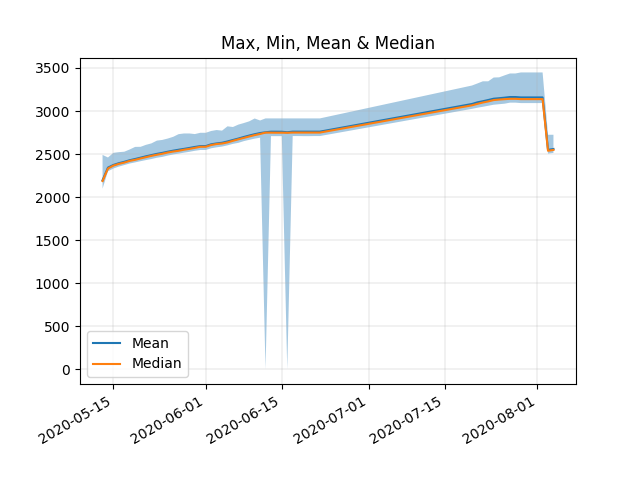
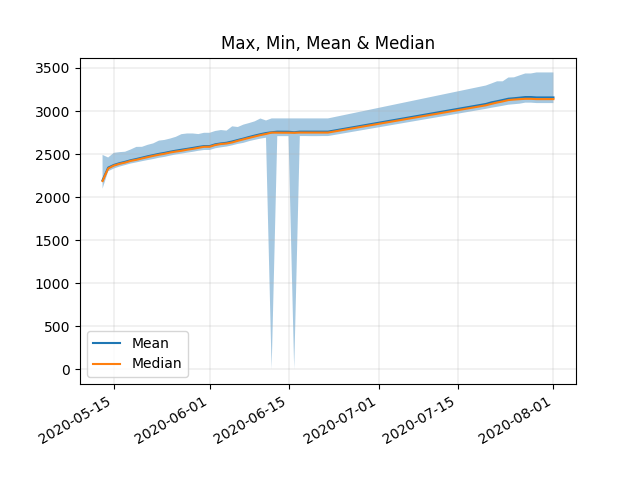
Tue Aug  4 18:10:04 EDT 2020

diff --git a/script/populate_readme.py b/script/populate_readme.py
@@ -31,8 +31,27 @@ def plots(data_frame, fig_name):
     plt.gcf().autofmt_xdate()
     fig.savefig(f"{pwd_path}../images/{fig_name}_CHANGE.png", format="png")
 
-sData = {}
 
+def season_plot(df, start_date, end_date, season_name):
+    season_mask = (df['date'] > start_date) & (df['date'] <= end_date)
+    season_df = df.loc[season_mask].copy()
+    season_reset = True
+    start_mean = 0
+    for row in season_df.itertuples():
+        if season_reset:
+            season_df.at[row.Index, 'drift_total'] = 0
+            season_df.at[row.Index, 'drift_daily'] = 0
+            start_mean = row.mean
+            season_reset = False
+        else:
+            prev_mean = season_df.at[row.Index-1, 'mean']
+            season_df.at[row.Index, 'drift_daily'] = round(row.mean - prev_mean, 1)
+            season_df.at[row.Index, 'drift_total'] = round(row.mean - start_mean, 1)
+    print(season_df)
+    plots(season_df, season_name)
+
+
+sData = {}
 for inFile in os.listdir(json_file):
     with open(os.path.join(json_file, inFile), 'r') as in_file:
         if "latest" in inFile:
@@ -101,31 +120,21 @@ for clm in clms:
 # all time plots
 plots(df, "all-time")
 # season 1 plots
-season1 = (df['date'] > "2020-04-11") & (df['date'] <= "2020-05-11")
-plots(df.loc[season1].copy(), "season-1")
+season_plot(df, "2020-04-11", "2020-05-11", "season-1")
 # season 2 plots
-season2_mask = (df['date'] > "2020-05-12") & (df['date'] <= "2022-01-01")
-season2 = df.loc[season2_mask].copy()
-season_reset = True
-start_mean = 0
-for row in season2.itertuples():
-    if season_reset:
-        season2.at[row.Index, 'drift_total'] = 0
-        season2.at[row.Index, 'drift_daily'] = 0
-        start_mean = row.mean
-        season_reset = False
-    else:
-        prev_mean = season2.at[row.Index-1, 'mean']
-        season2.at[row.Index, 'drift_daily'] = round(row.mean - prev_mean, 1)
-        season2.at[row.Index, 'drift_total'] = round(row.mean - start_mean, 1)
-print(season2)
-plots(season2, "season-2")
+season_plot(df, "2020-05-12", "2020-08-01", "season-2")
+# season 3 plots
+season_plot(df, "2020-08-02", "2022-01-01", "season-3")
 
 stat.append(clms)
 with open(f'{pwd_path}/../README.md', 'w') as readme_file:
     readme_file.write("# MMR Drift Status\n")
     readme_file.write("\n")
     readme_file.write(f"**Last Updated (UTC):** {datetime.utcnow()}\n")
+
+    readme_file.write("# Season 3\n")
+    readme_file.write(f"![Figure 1](/images/season-3_MMMM.png)\n")
+    readme_file.write(f"![Figure 2](/images/season-3_CHANGE.png)\n")
 
     readme_file.write("# Season 2\n")
     readme_file.write(f"![Figure 1](/images/season-2_MMMM.png)\n")
@@ -157,4 +166,3 @@ with open(f'{pwd_path}/../README.md', 'w') as readme_file:
             line = "|:---" * row_len + " |\n"
             readme_file.write(line)
             header = False
-

diff --git a/README.md b/README.md
@@ -1,6 +1,9 @@
 # MMR Drift Status
 
-**Last Updated (UTC):** 2020-08-04 21:15:16.799066
+**Last Updated (UTC):** 2020-08-04 22:10:03.855243
+# Season 3
+![Figure 1](/images/season-3_MMMM.png)
+![Figure 2](/images/season-3_CHANGE.png)
 # Season 2
 ![Figure 1](/images/season-2_MMMM.png)
 ![Figure 2](/images/season-2_CHANGE.png)
